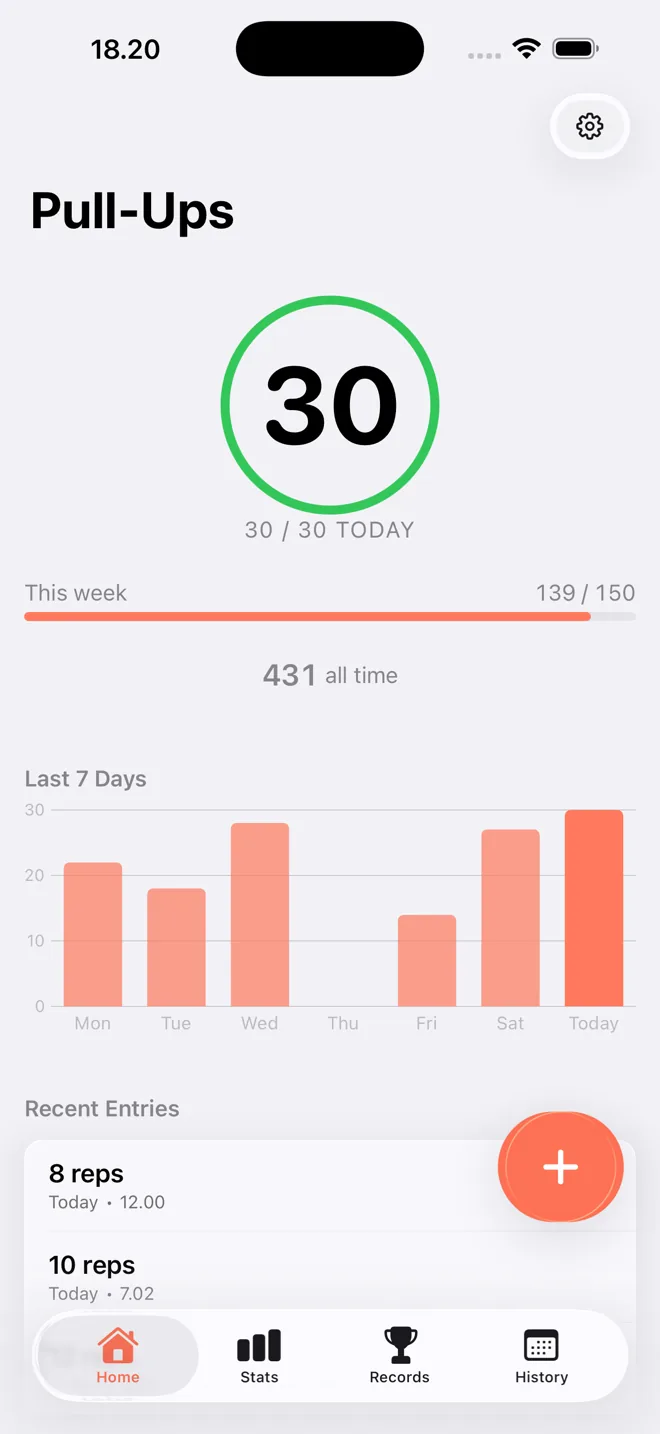
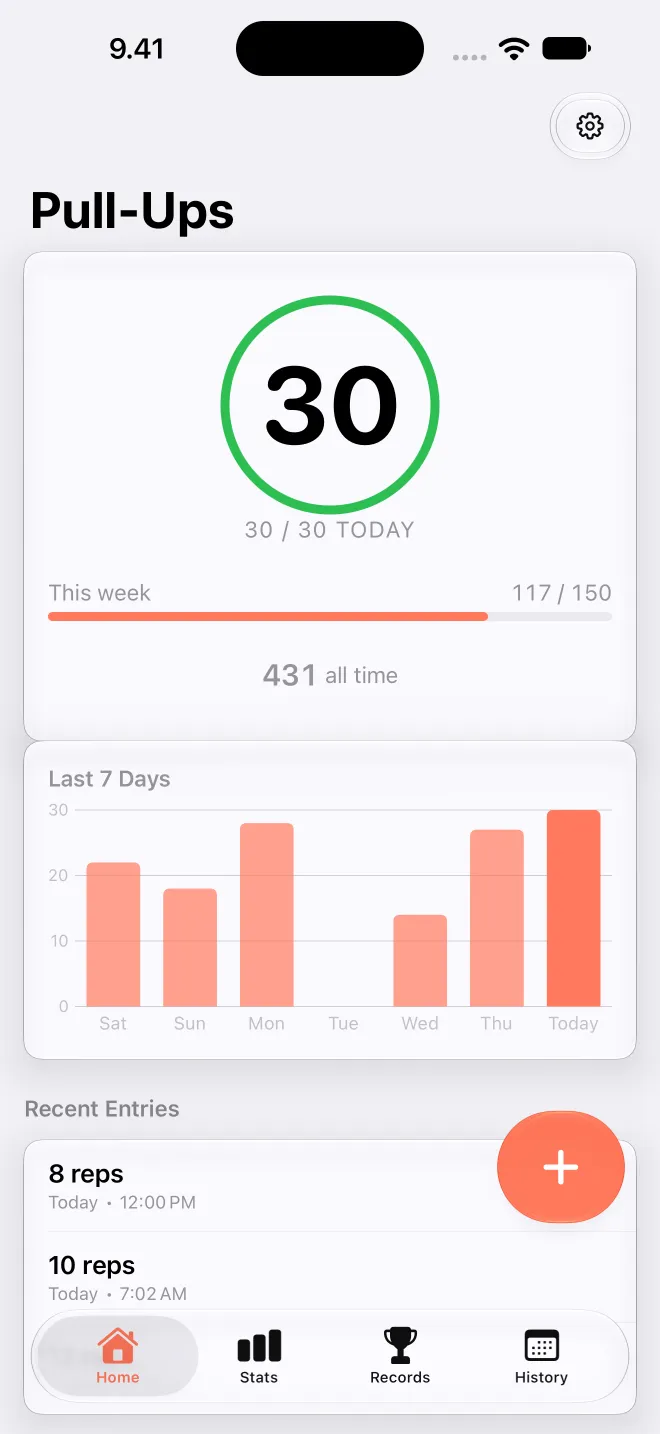
Describe grips, per-grip records and exact goals from app 1.6.0 (#24)
* Describe grips, per-grip records and exact goals from app 1.6.0

Version 1.6.0 (iOS and Android) logs each set as a pull-up, chin-up or
neutral grip, keeps records per grip, lets Siri log chin-ups and
neutral-grip pull-ups, and sets goals by typing an exact number.

- Landing: highlight cards and Siri tile mention grips; new FAQ
  "Can I track chin-ups?"
- Guide: grip step in Logging, exact goal entry, per-grip records,
  grip Siri phrases and the Shortcuts Grip option, new FAQ (visible
  and JSON-LD)
- Privacy: grip listed under Data You Enter; Last Updated bumped
- Articles: grip in "What to record"; weighted records are per grip
- Sitemap: lastmod for the changed pages

* Replace app screenshots with 1.6.0 captures showing grips

The Records shot now shows Most Reps in One Set with Normal, Weighted,
Chin-ups and Neutral grip rows instead of the old Best Set and
Most Weighted Reps cards. Home, Stats and History are recaptured from
the same build so all four phones match.

Captured from the app's current main (Debug, --screenshot-data) on the
iPhone 18 Pro Max simulator at 1320x2868, light mode, en-US with kg,
daily goal 30 and weekly goal 150, status bar fixed. The Dynamic
Island is drawn at the same position as before, since simulator
screenshots leave it out. WebPs regenerated at 660px q80, og-image.jpg
re-rendered from og-image-source.html, and the Records alt text and
History image height updated.

---------

diff --git a/guide/index.html b/guide/index.html
@@ -59,6 +59,14 @@
       },
       {
         "@type": "Question",
+        "name": "Can I track chin-ups or neutral-grip pull-ups?",
+        "acceptedAnswer": {
+          "@type": "Answer",
+          "text": "Yes. Use the Pull-up / Chin-up / Neutral control in the entry sheet to set each set's grip. Records keep a separate best for each grip, while totals, goals, streaks, and reports count every set."
+        }
+      },
+      {
+        "@type": "Question",
         "name": "I accidentally deleted an entry. Can I recover it?",
         "acceptedAnswer": {
           "@type": "Answer",
@@ -202,12 +210,14 @@
           <p>Tap the <strong>+</strong> button to open the entry sheet. You can:</p>
           <ul>
             <li><strong>Set reps</strong> &mdash; Use the stepper or tap the number to type directly</li>
+            <li><strong>Choose a grip</strong> &mdash; Pull-up (palms facing away), Chin-up (palms facing you), or Neutral (palms facing each other)</li>
             <li><strong>Choose a workout type</strong> &mdash; Normal, Weighted, Assisted, or Other</li>
             <li><strong>Add weight</strong> &mdash; Appears for Weighted and Assisted types, in kg or lbs (set in Settings)</li>
             <li><strong>Add notes</strong> &mdash; Optional free-text for extra context</li>
             <li><strong>Change the date</strong> &mdash; Log a past workout by adjusting the date picker</li>
           </ul>
-          <p>Your default reps, workout type, and weight are saved so logging is fast. Change the defaults in Settings.</p>
+          <p>Your default reps, workout type, and weight are saved so logging is fast. Change the defaults in Settings. A new set starts on the grip of your latest entry, so if you mostly do chin-ups you don't have to pick it every time.</p>
+          <p>Entries show their grip in the list (for example &ldquo;Chin-up&rdquo; or &ldquo;Neutral grip&rdquo;). Totals, goals, streaks, widgets, and reports count every grip.</p>
 
           <h3>Editing &amp; Deleting</h3>
           <p>Tap any entry in the recent list on the Home tab to edit it. To delete an entry, open it and tap Delete. A confirmation dialog appears before anything is removed.</p>
@@ -223,7 +233,7 @@
             <li>A <strong>progress bar</strong> tracks your weekly goal below the chart</li>
             <li>Widgets display your goal progress too</li>
           </ul>
-          <p>Set a goal to 0 to disable it. On iOS, goals sync across your devices via iCloud.</p>
+          <p>Tap Daily Goal or Weekly Goal and type the exact number you want: up to 500 a day or 3,500 a week. Set a goal to 0, or tap <strong>No goal</strong>, to disable it. On iOS, goals sync across your devices via iCloud.</p>
         </section>
 
         <!-- Statistics -->
@@ -245,10 +255,10 @@
           <h2 class="guide-section-title">Personal Records</h2>
           <p>The Records tab automatically tracks your best performances:</p>
           <ul>
-            <li><strong>Most reps in one set</strong> &mdash; A separate record for each workout type (Normal, Weighted, Assisted, Other), so an assisted set never hides your normal pull-up best. Weighted records also show the added weight.</li>
+            <li><strong>Most reps in one set</strong> &mdash; A separate record for each grip and workout type (for example &ldquo;Pull-ups&rdquo;, &ldquo;Chin-ups&rdquo;, or &ldquo;Neutral grip &middot; Weighted&rdquo;), so a chin-up or an assisted set never hides your normal pull-up best. Weighted records also show the added weight.</li>
             <li><strong>Best day</strong> &mdash; Your highest daily total across all workout types</li>
             <li><strong>Current and longest streaks</strong> &mdash; Streaks allow 1 rest day without breaking</li>
-            <li><strong>Heaviest weight</strong> &mdash; The most weight you've added to a weighted set</li>
+            <li><strong>Heaviest weight</strong> &mdash; The most weight you've added to a weighted set, for each grip</li>
           </ul>
         </section>
 
@@ -312,11 +322,12 @@
           <p>Log pull-ups hands-free with Siri. Each phrase ends with the app's name on your Home Screen, <strong>Pull-Ups</strong>:</p>
           <ul>
             <li><strong>"Log pull-ups in Pull-Ups"</strong> &mdash; Siri will ask how many reps, then save the entry. "Record pull-ups" and "Add pull-ups" work too.</li>
+            <li><strong>"Log chin-ups in Pull-Ups"</strong> or <strong>"Log neutral-grip pull-ups in Pull-Ups"</strong> &mdash; Logs the set with that grip, and Siri's reply names it (&ldquo;Logged 10 chin-ups&rdquo;). &ldquo;Hammer-grip&rdquo; and &ldquo;parallel-grip pull-ups&rdquo; work too.</li>
             <li><strong>"Show my stats in Pull-Ups"</strong> &mdash; Opens the Stats tab</li>
             <li><strong>"Show my history in Pull-Ups"</strong> &mdash; Opens the History tab</li>
             <li><strong>"Show my records in Pull-Ups"</strong> &mdash; Opens the Records tab</li>
           </ul>
-          <p>You can also use these in the Shortcuts app to build custom automations.</p>
+          <p>You can also use these in the Shortcuts app to build custom automations. The Log Pull-Ups action has a <strong>Grip</strong> option, which defaults to pull-ups. Siri phrases are in English.</p>
         </section>
 
         <!-- Export & Import -->
@@ -356,6 +367,11 @@
           <div class="faq-item">
             <h3>Can I log workouts for past dates?</h3>
             <p>Yes. When adding an entry, tap the date field to pick a different date.</p>
+          </div>
+
+          <div class="faq-item">
+            <h3>Can I track chin-ups or neutral-grip pull-ups?</h3>
+            <p>Yes. Use the <strong>Pull-up / Chin-up / Neutral</strong> control in the entry sheet to set each set's grip. Records keep a separate best for each grip, while totals, goals, streaks, and reports count every set.</p>
           </div>
 
           <div class="faq-item">

diff --git a/index.html b/index.html
@@ -110,11 +110,11 @@
             <figcaption>See your progress over time</figcaption>
           </figure>
           <figure class="screenshot screenshot-featured">
-            <img src="images/screenshot-records.webp" alt="Records screen with streaks, personal bests, and weighted records" width="660" height="1434" loading="lazy">
+            <img src="images/screenshot-records.webp" alt="Records screen with streaks and most reps in one set for normal, weighted, chin-up, and neutral-grip sets" width="660" height="1434" loading="lazy">
             <figcaption>Celebrate your personal bests</figcaption>
           </figure>
           <figure class="screenshot">
-            <img src="images/screenshot-history.webp" alt="History screen with a heatmap of training days and monthly totals" width="660" height="1428" loading="lazy">
+            <img src="images/screenshot-history.webp" alt="History screen with a heatmap of training days and monthly totals" width="660" height="1434" loading="lazy">
             <figcaption>See every training day</figcaption>
           </figure>
         </div>
@@ -126,7 +126,7 @@
         <div class="highlight-card">
           <span class="benefit-number" aria-hidden="true">01</span>
           <h2 class="highlight-title">Log quickly</h2>
-          <p class="highlight-desc">Save a set with your usual defaults, or add reps, weight, and notes. Normal, weighted, assisted, or custom: track your way.</p>
+          <p class="highlight-desc">Save a set with your usual defaults, or add reps, weight, and notes. Pull-ups, chin-ups, or neutral grip; normal, weighted, or assisted: track your way.</p>
         </div>
         <div class="highlight-card">
           <span class="benefit-number" aria-hidden="true">02</span>
@@ -136,7 +136,7 @@
         <div class="highlight-card">
           <span class="benefit-number" aria-hidden="true">03</span>
           <h2 class="highlight-title">See improvement</h2>
-          <p class="highlight-desc">Follow your progress from week to year. Celebrate personal bests, with weighted records tracked separately.</p>
+          <p class="highlight-desc">Follow your progress from week to year. Celebrate personal bests, with separate records for each grip and for weighted sets.</p>
         </div>
       </div>
       <div class="container more-features">
@@ -148,7 +148,7 @@
           </li>
           <li>
             <span class="feature-tile-icon" aria-hidden="true"><svg viewBox="0 0 24 24"><rect x="9" y="2" width="6" height="12" rx="3"/><path d="M5 10a7 7 0 0 0 14 0"/><path d="M12 17v4"/><path d="M8 21h8"/></svg></span>
-            <div><h3>Siri &amp; Shortcuts <span class="platform-tag">iPhone</span></h3><p>Say &ldquo;Log pull-ups in Pull-Ups&rdquo; and Siri asks how many reps.</p></div>
+            <div><h3>Siri &amp; Shortcuts <span class="platform-tag">iPhone</span></h3><p>Say &ldquo;Log pull-ups in Pull-Ups&rdquo; or &ldquo;Log chin-ups in Pull-Ups&rdquo; and Siri asks how many reps.</p></div>
           </li>
           <li>
             <span class="feature-tile-icon" aria-hidden="true"><svg viewBox="0 0 24 24"><path d="M6 8a6 6 0 0 1 12 0c0 7 3 9 3 9H3s3-2 3-9"/><path d="M10.3 21a1.94 1.94 0 0 0 3.4 0"/></svg></span>
@@ -226,6 +226,10 @@
           <details class="faq-item">
             <summary>Does it work without an internet connection?</summary>
             <p>Yes, completely. Every feature works offline. On iOS, iCloud sync simply catches up the next time you&rsquo;re online.</p>
+          </details>
+          <details class="faq-item">
+            <summary>Can I track chin-ups?</summary>
+            <p>Yes. Log each set as a pull-up, chin-up, or neutral grip. Records keep a separate best for each grip, so a chin-up never counts as your pull-up record, while totals, goals, and streaks count every set.</p>
           </details>
           <details class="faq-item">
             <summary>Is there an Android version?</summary>

diff --git a/articles/weighted-pull-ups/index.html b/articles/weighted-pull-ups/index.html
@@ -45,7 +45,7 @@
     "description": "Once bodyweight pull-ups get easy, added weight is how you keep getting stronger. When you are ready, what gear to use, how much to start with, and a simple way to progress.",
     "image": "https://pulluptracker.app/images/og-image.jpg",
     "datePublished": "2026-10-02",
-    "dateModified": "2026-10-02",
+    "dateModified": "2026-10-09",
     "author": {
       "@type": "Person",
       "name": "Lauri Oherd"
@@ -173,7 +173,7 @@
               <li><strong>Compare like with like.</strong> A set of 6 with 10 kg and a set of 6 at bodyweight are different achievements. Mixing them into one &ldquo;best set&rdquo; hides your progress in both.</li>
               <li><strong>Keep separate records.</strong> Your heaviest weight and your most reps with added weight are the numbers that tell you whether your weighted training is working.</li>
             </ul>
-            <p><a href="../../">Pull-Up Tracker</a> is built for this: log a set as <em>Weighted</em> with the weight in kg or lbs. On the Records screen, <em>Most Reps in One Set</em> keeps a separate record for each workout type, so a weighted set never competes with a bodyweight one, and <em>Heaviest Weight</em> has its own card. For more on what to record and why, see <a href="../how-to-track-pull-up-progress/">How to Track Your Pull-Up Progress</a>.</p>
+            <p><a href="../../">Pull-Up Tracker</a> is built for this: log a set as <em>Weighted</em> with the weight in kg or lbs. On the Records screen, <em>Most Reps in One Set</em> keeps a separate record for each workout type and grip, so a weighted set never competes with a bodyweight one, and <em>Heaviest Weight</em> is tracked for each grip. For more on what to record and why, see <a href="../how-to-track-pull-up-progress/">How to Track Your Pull-Up Progress</a>.</p>
           </section>
 
           <section class="guide-section fade-in">

diff --git a/articles/how-to-track-pull-up-progress/index.html b/articles/how-to-track-pull-up-progress/index.html
@@ -45,7 +45,7 @@
     "description": "The fastest way to get better at pull-ups is keeping score. What to record, which numbers actually matter, and how to turn a training log into steady progress.",
     "image": "https://pulluptracker.app/images/og-image.jpg",
     "datePublished": "2026-07-11",
-    "dateModified": "2026-07-11",
+    "dateModified": "2026-10-09",
     "author": {
       "@type": "Person",
       "name": "Lauri Oherd"
@@ -114,8 +114,9 @@
               <li><strong>Date</strong> &mdash; when you did it</li>
               <li><strong>Reps</strong> &mdash; how many</li>
               <li><strong>Type</strong> &mdash; regular bodyweight, weighted, or assisted</li>
+              <li><strong>Grip</strong> &mdash; pull-up, chin-up, or neutral, if you train more than one</li>
               <li><strong>Weight</strong> &mdash; added weight for weighted sets, or assistance used for assisted sets</li>
-              <li><strong>Notes (optional)</strong> &mdash; anything worth remembering: new grip, felt easy, elbow niggle</li>
+              <li><strong>Notes (optional)</strong> &mdash; anything worth remembering: felt easy, new bar, elbow niggle</li>
             </ul>
             <p>That's it. Resist the urge to track ten more variables &mdash; tempo, rest times, heart rate. More fields mean more friction, and friction is what kills tracking habits. You can always add detail in a note when something is genuinely worth noting.</p>
           </section>

diff --git a/privacy/index.html b/privacy/index.html
@@ -69,7 +69,7 @@
     <div class="guide-content">
         <div class="container">
             <section class="guide-section">
-                <p><strong>Last Updated:</strong> October 2nd, 2026</p>
+                <p><strong>Last Updated:</strong> October 9th, 2026</p>
                 <p><strong>Pull-Up Tracker</strong> ("the App") is developed by Lauri Oherd and is available for iPhone and iPad (the iOS app) and for Android devices (the Android app). This Privacy Policy covers both apps and explains how we collect, use, and protect your information. Your privacy is important to us, and we are committed to protecting it. Where the two apps differ, the differences are called out below.</p>
 
                 <h2>1. Overview</h2>
@@ -81,7 +81,7 @@
                 <p>The App stores only the data you explicitly enter:</p>
                 <ul>
                     <li>Pull-up entries (date, time, rep count)</li>
-                    <li>Workout type (normal, weighted, assisted, other)</li>
+                    <li>Workout type (normal, weighted, assisted, other) and grip (pull-up, chin-up, neutral)</li>
                     <li>Optional weight and notes for each entry</li>
                     <li>Your preferences (default reps, appearance mode, weight unit)</li>
                     <li>Daily and weekly goal settings</li>
